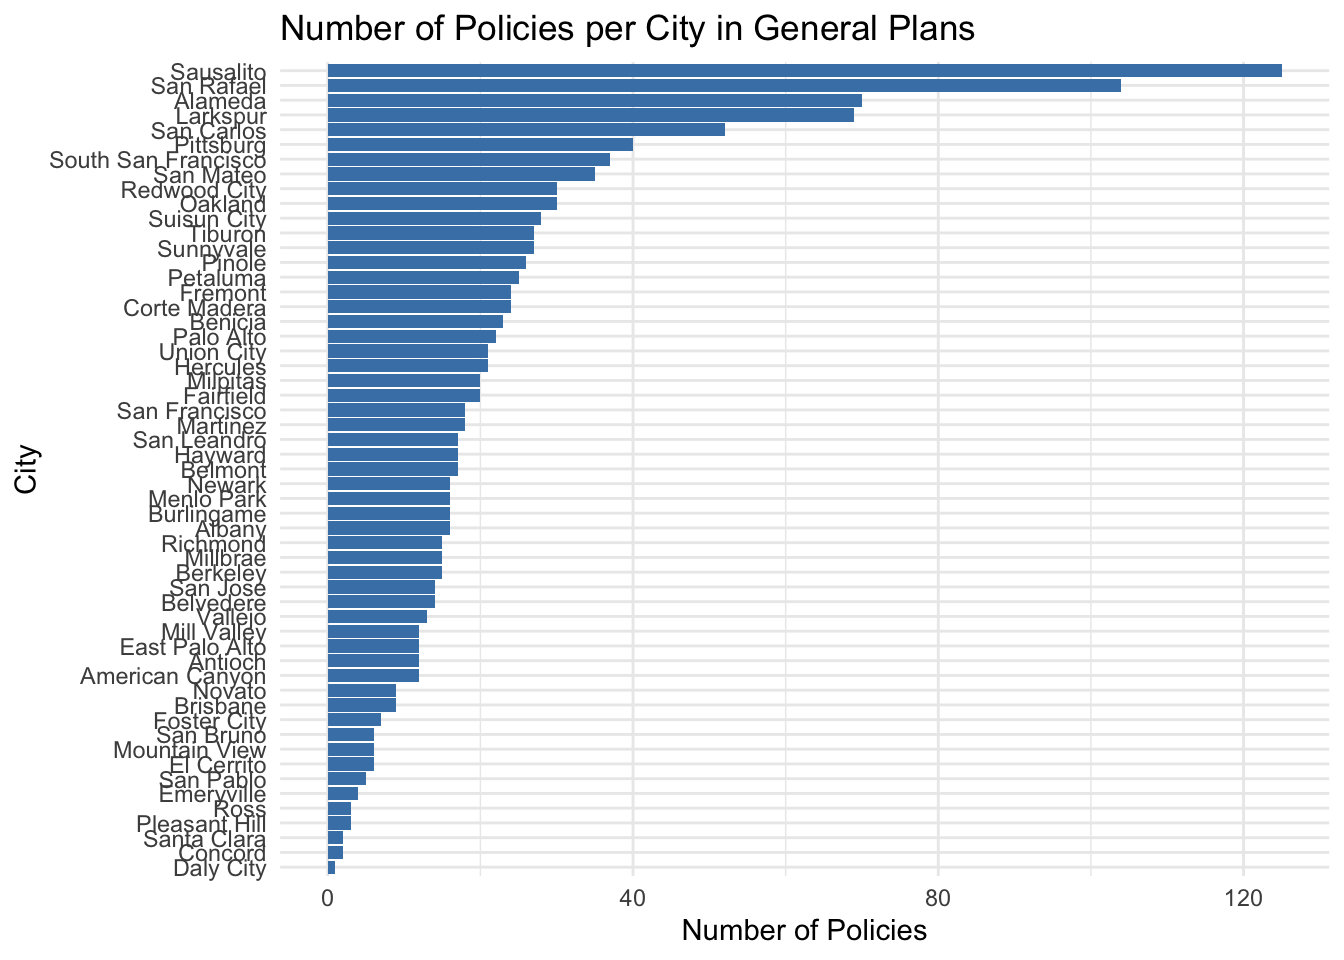
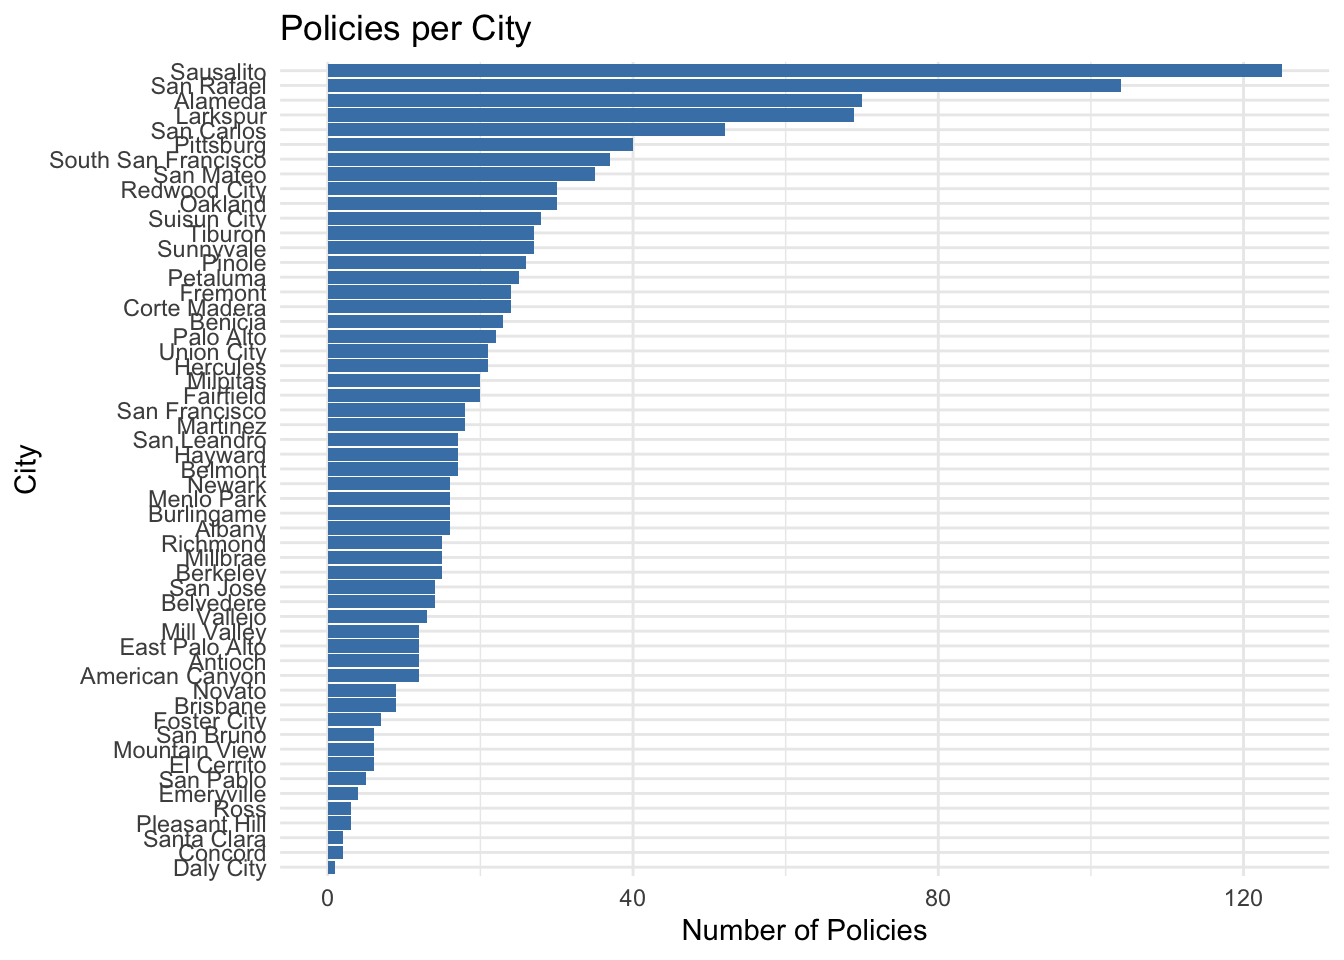
hw2 html

Changed region(s): [[0.2188, 0.0, 0.7188, 0.0625]]

diff --git a/HW2.html b/HW2.html
@@ -96,7 +96,7 @@ pre > code.sourceCode > span > a:first-child::before { text-decoration: underlin
 </header>
 
 
-<p>To start my data analysis, I load in the data directly from the github repo where it is stored and do some initial cleaning so that I can better look at the topics of interest.</p>
+<p>First, I load in the data directly from the github repo where it is stored and do some initial cleaning so that I can better look at the topics of interest. To start, I plot the number of policies per city and the number of times each topic is considered across all cities.</p>
 <div class="cell">
 <div class="sourceCode cell-code" id="cb1"><pre class="sourceCode r code-with-copy"><code class="sourceCode r"><span id="cb1-1"><a href="#cb1-1" aria-hidden="true" tabindex="-1"></a><span class="fu">library</span>(readxl)</span>
 <span id="cb1-2"><a href="#cb1-2" aria-hidden="true" tabindex="-1"></a><span class="fu">library</span>(tidyverse)</span>
@@ -168,7 +168,7 @@ pre > code.sourceCode > span > a:first-child::before { text-decoration: underlin
 <span id="cb2-6"><a href="#cb2-6" aria-hidden="true" tabindex="-1"></a><span class="fu">ggplot</span>(cd_cities_plot, <span class="fu">aes</span>(<span class="at">x =</span> <span class="fu">reorder</span>(city, n), <span class="at">y =</span> n)) <span class="sc">+</span></span>
 <span id="cb2-7"><a href="#cb2-7" aria-hidden="true" tabindex="-1"></a>  <span class="fu">geom_bar</span>(<span class="at">stat =</span> <span class="st">"identity"</span>, <span class="at">fill =</span> <span class="st">"steelblue"</span>) <span class="sc">+</span></span>
 <span id="cb2-8"><a href="#cb2-8" aria-hidden="true" tabindex="-1"></a>  <span class="fu">coord_flip</span>() <span class="sc">+</span></span>
-<span id="cb2-9"><a href="#cb2-9" aria-hidden="true" tabindex="-1"></a>  <span class="fu">labs</span>(<span class="at">title =</span> <span class="st">"Number of Policies per City in General Plans"</span>,</span>
+<span id="cb2-9"><a href="#cb2-9" aria-hidden="true" tabindex="-1"></a>  <span class="fu">labs</span>(<span class="at">title =</span> <span class="st">"Policies per City "</span>,</span>
 <span id="cb2-10"><a href="#cb2-10" aria-hidden="true" tabindex="-1"></a>       <span class="at">x =</span> <span class="st">"City"</span>,</span>
 <span id="cb2-11"><a href="#cb2-11" aria-hidden="true" tabindex="-1"></a>       <span class="at">y =</span> <span class="st">"Number of Policies"</span>) <span class="sc">+</span></span>
 <span id="cb2-12"><a href="#cb2-12" aria-hidden="true" tabindex="-1"></a>  <span class="fu">theme_minimal</span>()</span></code><button title="Copy to Clipboard" class="code-copy-button"><i class="bi"></i></button></pre></div>
@@ -192,7 +192,7 @@ pre > code.sourceCode > span > a:first-child::before { text-decoration: underlin
 <span id="cb3-9"><a href="#cb3-9" aria-hidden="true" tabindex="-1"></a><span class="fu">ggplot</span>(cd_topic_sums, <span class="fu">aes</span>(<span class="at">x =</span> <span class="fu">reorder</span>(topic, count), <span class="at">y =</span> count)) <span class="sc">+</span></span>
 <span id="cb3-10"><a href="#cb3-10" aria-hidden="true" tabindex="-1"></a>  <span class="fu">geom_bar</span>(<span class="at">stat =</span> <span class="st">"identity"</span>, <span class="at">fill =</span> <span class="st">"steelblue"</span>) <span class="sc">+</span></span>
 <span id="cb3-11"><a href="#cb3-11" aria-hidden="true" tabindex="-1"></a>  <span class="fu">coord_flip</span>() <span class="sc">+</span></span>
-<span id="cb3-12"><a href="#cb3-12" aria-hidden="true" tabindex="-1"></a>  <span class="fu">labs</span>(<span class="at">title =</span> <span class="st">"Count of Topics Considered in City General Plans"</span>,</span>
+<span id="cb3-12"><a href="#cb3-12" aria-hidden="true" tabindex="-1"></a>  <span class="fu">labs</span>(<span class="at">title =</span> <span class="st">"Count of Topics"</span>,</span>
 <span id="cb3-13"><a href="#cb3-13" aria-hidden="true" tabindex="-1"></a>       <span class="at">x =</span> <span class="st">"Topic"</span>,</span>
 <span id="cb3-14"><a href="#cb3-14" aria-hidden="true" tabindex="-1"></a>       <span class="at">y =</span> <span class="st">"Count"</span>) <span class="sc">+</span></span>
 <span id="cb3-15"><a href="#cb3-15" aria-hidden="true" tabindex="-1"></a>  <span class="fu">theme_minimal</span>()</span></code><button title="Copy to Clipboard" class="code-copy-button"><i class="bi"></i></button></pre></div>
@@ -204,6 +204,7 @@ pre > code.sourceCode > span > a:first-child::before { text-decoration: underlin
 </div>
 </div>
 </div>
+<p>Github Copilot was used to expedite the coding process.</p>
 
 </main>
 <!-- /main column -->
